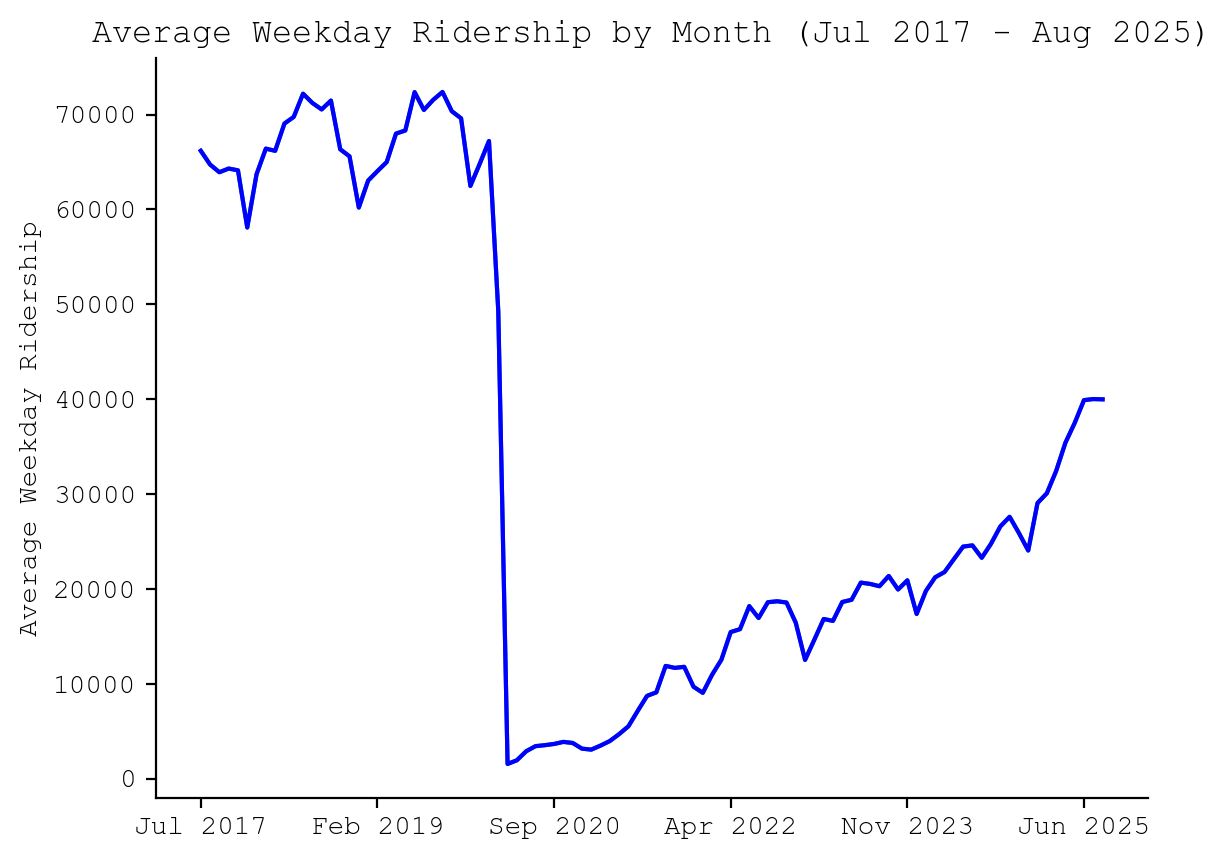
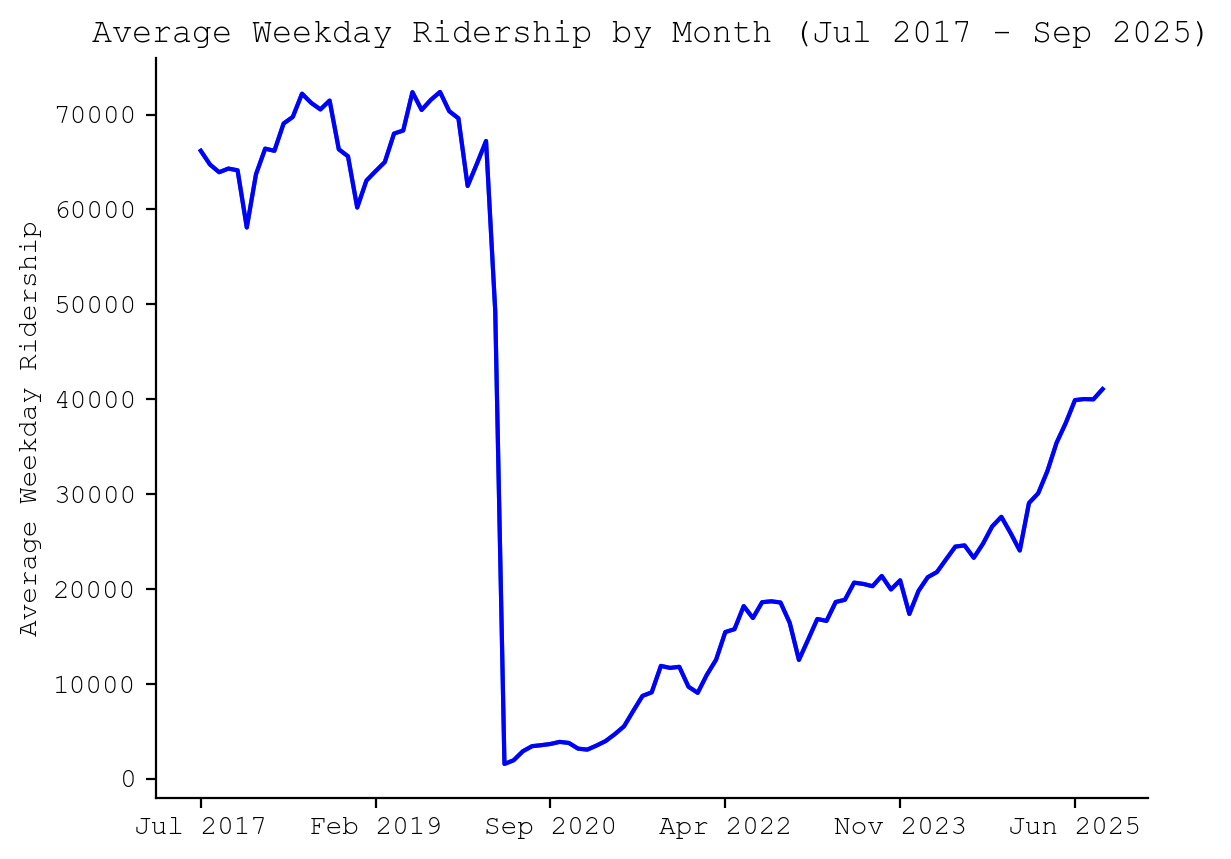
add sep 2025

diff --git a/site/index.html b/site/index.html
@@ -9,15 +9,15 @@
 </head>
 <body>
     <h1>Caltrain Ridership</h1>
-    <p><em>Last updated: 2025-09-10</em></p>    
+    <p><em>Last updated: 2025-10-10</em></p>    
     <div class="news">
         <p>
             It looks like you're on desktop, so you can use Caltrain's new ridership web page which has more detailed ridership data from 2023 onwards: <a href="https://www.caltrain.com/about-caltrain/statistics-reports/ridership/fare-media-based">https://www.caltrain.com/about-caltrain/statistics-reports/ridership/fare-media-based</a>.
         </p>
     </div>
     <p>
-        This site contains graphs and a table of Caltrain's average weekday ridership from Jul 2017 to Aug 2025 sourced from <a href="https://www.caltrain.com/about-caltrain/statistics-reports/ridership/fare-media-based">Fare Media Sales-Based Ridership Estimates</a> and JPB Citizens Advisory Committee documents.
-        Average weekday ridership is reported with a 1-month lag, so the most recent data is from Aug 2025.
+        This site contains graphs and a table of Caltrain's average weekday ridership from Jul 2017 to Sep 2025 sourced from <a href="https://www.caltrain.com/about-caltrain/statistics-reports/ridership/fare-media-based">Fare Media Sales-Based Ridership Estimates</a> and JPB Citizens Advisory Committee documents.
+        Average weekday ridership is reported with a 1-month lag, so the most recent data is from Sep 2025.
     </p>
     <p>
         You can find a <a href="https://github.com/iechevarria/caltrain-ridership/blob/main/ridership.csv">CSV</a> of Caltrain's average weekday ridership and the script to generate this site on <a href="https://github.com/iechevarria/caltrain-ridership">GitHub</a>.
@@ -31,6 +31,10 @@
     <tr>
         <td>Month</td>
         <td>Average weekday ridership</td>
+    </tr>
+    <tr>
+        <td>Sep 2025</td>
+        <td>41064</td>
     </tr>
     <tr>
         <td>Aug 2025</td>
